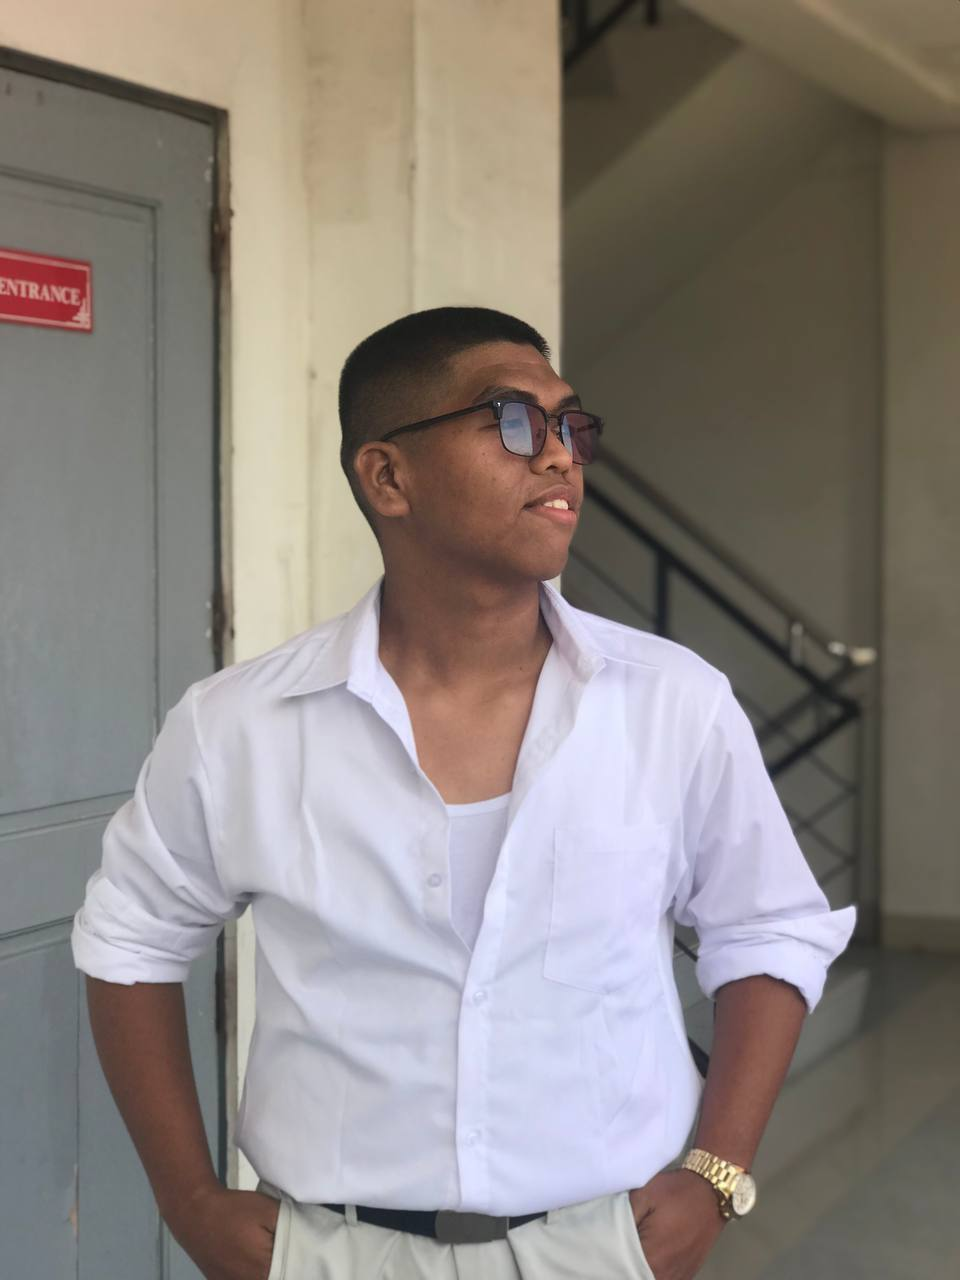
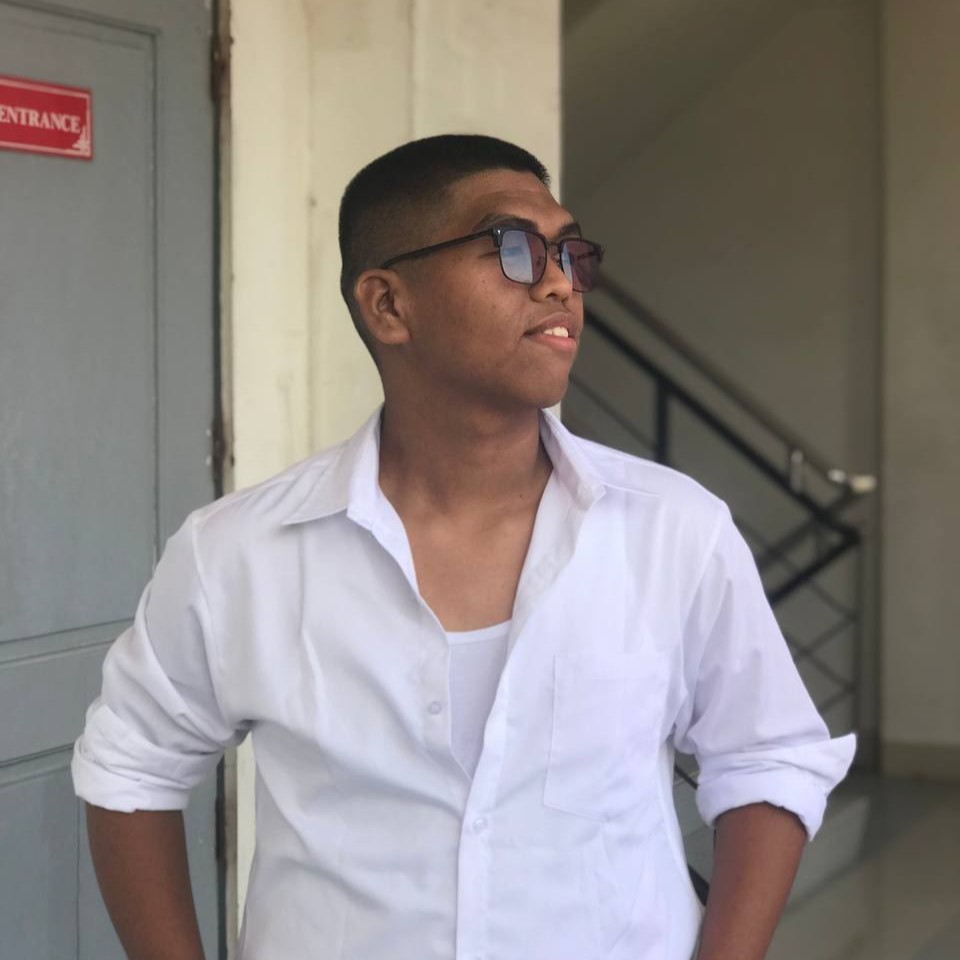
pic

diff --git a/index.html b/index.html
@@ -4,15 +4,12 @@
 		<meta charset="UTF-8" />
 		<meta name="viewport" content="width=device-width, initial-scale=1.0" />
 		<title>DANNNN</title>
-		<link
-			rel="stylesheet"
-			href="https://cdnjs.cloudflare.com/ajax/libs/font-awesome/6.0.0/css/all.min.css"
-		/>
+		<link rel="stylesheet" href="index.css" />
 		<link rel="icon" type="image/jprg" href="image/me.jpg" />
 	</head>
 	<body style="background-color: rgb(255, 255, 255)">
 		<blockquote>
-			<em><h1 style="font-size: 50px">I'm Mark Jordan B. Javier</h1></em>
+			<em><h1 style="font-size: 50px">I'm Mark Jordan</h1></em>
 		</blockquote>
 		<blockquote>
 			<p>
@@ -24,14 +21,16 @@
 				</b>
 			</p>
 		</blockquote>
-		<blockquote><p></p></blockquote>
 		<blockquote>
-			<img src="image/BSU.jpeg" alt="handsome" width="300" /><br />
-			<hr />
-		</blockquote>
-		<blockquote>
-			<img src="image/dann.jpeg" alt="handsome" width="300" /><br />
-			<hr />
+			<div class="jordan">
+				<img
+					src="image/dann.jpeg"
+					alt="handsome"
+					width="300"
+					height="300"
+				/><br />
+				<hr />
+			</div>
 		</blockquote>
 		<blockquote>
 			<b><p>CONTACT:</p></b>

diff --git a/index.css b/index.css
@@ -1,0 +1,16 @@
+@import url(https://cdnjs.cloudflare.com/ajax/libs/font-awesome/6.0.0/css/all.min.css);
+
+img {
+	border-radius: 50%;
+	overflow: hidden;
+}
+
+.jordan-img {
+	object-fit: cover;
+	transition: transform 0.8s;
+	height: 100%;
+}
+
+.jordan:hover img {
+	transition: scale(1, 5);
+}
